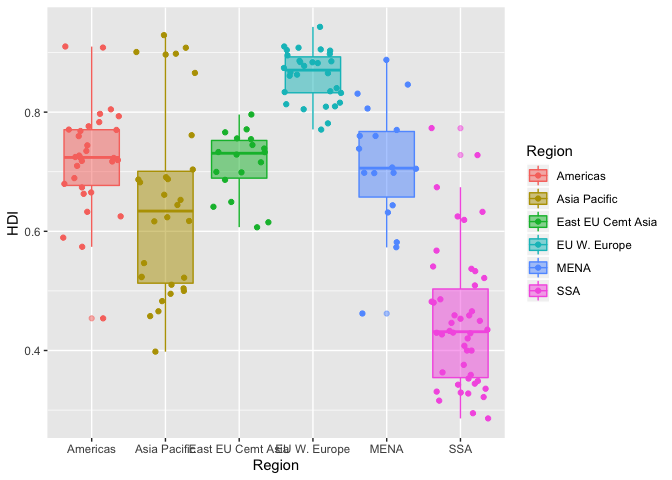
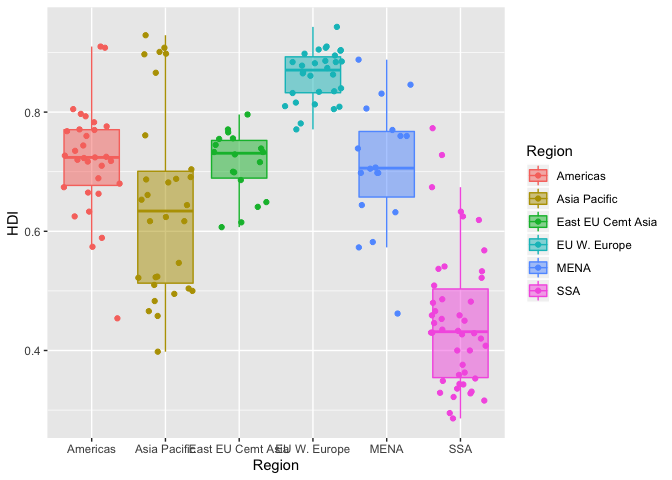
changed data url and added some minor edits

diff --git a/assignments/assignment_2.md b/assignments/assignment_2.md
@@ -4,13 +4,17 @@ Assignment 2: Data visualization with ggplot
 Instructions: Please read through this before you begin
 -------------------------------------------------------
 
--   This assignment is due by **10pm on Monday 03/16/20**. Please upload it through GitHub Classroom.
+-   This assignment is due by **10pm on Wednesday 03/18/20**. Please upload it using your personal GitHub repository for this class.
 
 -   For this assignment, please **reproduce this markdown file** using R markdown.
 
+-   Please name your R markdown file `assignment_2.Rmd` and the knitted markdown file `assignment_2.md`.
+
+-   Pay attention to all the formating in this file, including bullet points, bolded characters, inserted code chunks, headings, text colors, blank lines, and etc. You will need to reproduce all of these.
+
 -   Have all your code embeded within the R markdown file, and show both of your **code** and **plots** in the knitted markdown file.
 
--   When a verbal response is needed, answer by replacing the parts that say <span style="color:blue"> "Write your response here" </span> .
+-   When a verbal response is needed, answer by replacing the parts that say "Write your response here" .
 
 -   Use R Markdown functionalities to **hide messages and warnings when needed**. (Suggestion: messages and warnings can often be informative and important, so please examine them carefully and only turn them off when you finish the exercise).
 
@@ -35,7 +39,7 @@ This exercise explores a dataset containing the human development index (`HDI`) 
 First, we load the data using the following code.
 
 ``` r
-economist_data <- read_csv("../datasets/EconomistData.csv") # Window users should change the slashes in this path
+economist_data <- read_csv("https://raw.githubusercontent.com/nt246/NTRES6940-data-science/master/datasets/EconomistData.csv")
 ```
 
 <br>
@@ -107,7 +111,7 @@ economist_data <- read_csv("../datasets/EconomistData.csv") # Window users shoul
 
 <br>
 
-#### 1.11 Show the distribution of `HDI` in each region using a box plot. Set the transparency of these boxes to 0.5. Also show data points for each country in the same plot. (Hint: `geom_jitter()` or `position_jitter()` might be useful.)
+#### 1.11 Show the distribution of `HDI` in each region using a box plot. Set the transparency of these boxes to 0.5 and do not show outlier points with the box plot. Instead, show all data points for each country in the same plot. (Hint: `geom_jitter()` or `position_jitter()` might be useful.)
 
 ![](assignment_2_files/figure-markdown_github/unnamed-chunk-13-1.png)
 
@@ -121,7 +125,7 @@ economist_data <- read_csv("../datasets/EconomistData.csv") # Window users shoul
 
 #### 1.13 You have now created a variety of different plots of the same dataset. Which of your plots do you think are the most informative? Describe briefly the major trends that you see in the data.
 
-Answer: <span style="color:blue"> Write your response here. </span>
+Answer: Write your response here.
 
 <br>
 
